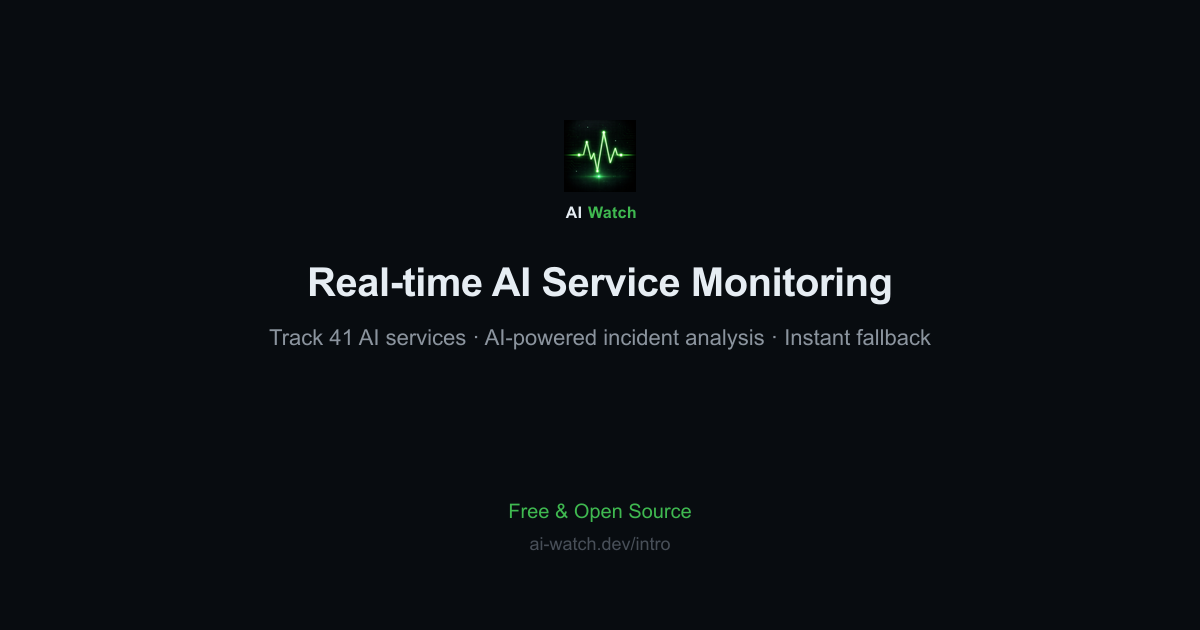
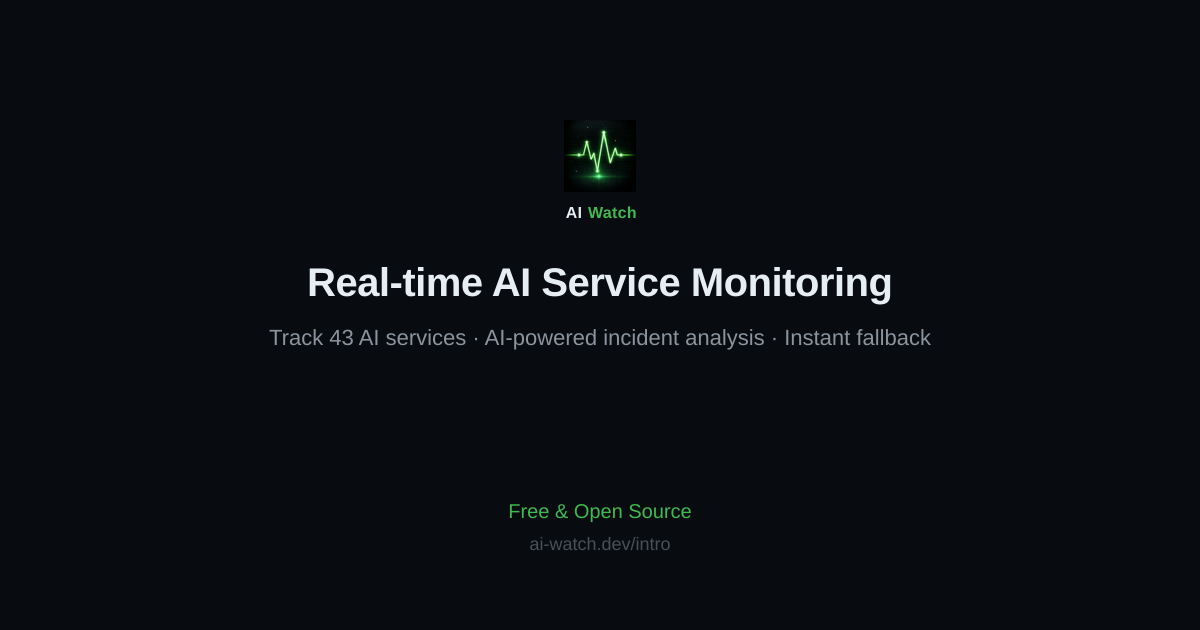
feat(services): add Twelve Labs video understanding API as service #43 (#839) (#871)
* feat(services): add Twelve Labs video understanding API as 43rd service (closes #839)

* fix: address Twelve Labs is-down page and probe review

* Fix CSP hashes and Twelve Labs related order

diff --git a/api/_methodology/html-template.ts b/api/_methodology/html-template.ts
@@ -25,7 +25,7 @@ export function renderMethodologyPage(nonce?: string): string {
 <title>How AIWatch Works — Methodology | AIWatch</title>
 ${CONSENT_INIT_COMMENT}
 ${consentInitScript(nonce)}
-<meta name="description" content="Transparent, independent measurement of AI service reliability. How AIWatch determines status, computes uptime and the AIWatch Score, and — explicitly — what we can't measure and why. 42 services, polled every 5 min, UTC.">
+<meta name="description" content="Transparent, independent measurement of AI service reliability. How AIWatch determines status, computes uptime and the AIWatch Score, and — explicitly — what we can't measure and why. 43 services, polled every 5 min, UTC.">
 <meta name="robots" content="index, follow">
 <meta property="og:type" content="website">
 <meta property="og:url" content="https://ai-watch.dev/methodology">
@@ -271,7 +271,7 @@ ${consentInitScript(nonce)}
 <section class="section" id="sources">
   <p class="section-label">// 01</p>
   <h2 data-i18n="s1.title">측정 대상</h2>
-  <p class="lead" data-i18n="s1.lead">AIWatch는 LLM API 15개, 코딩 에이전트 6개, 음성 3개, 추론·인프라 7개, 관측 3개, 영상 2개, 이미지 2개, AI 앱 4개 — 총 42개 AI 서비스를 최대 5분 간격으로 폴링합니다. 모든 시각은 UTC 기준입니다.</p>
+  <p class="lead" data-i18n="s1.lead">AIWatch는 LLM API 15개, 코딩 에이전트 6개, 음성 3개, 추론·인프라 8개, 관측 3개, 영상 2개, 이미지 2개, AI 앱 4개 — 총 43개 AI 서비스를 최대 5분 간격으로 폴링합니다. 모든 시각은 UTC 기준입니다.</p>
   <h3 data-i18n="s1.sourcesTitle">데이터 출처</h3>
   <p data-i18n="s1.sourcesDesc">상태·인시던트·uptime 데이터는 각 서비스의 공식 상태 페이지에서 수집됩니다. 제공사가 공개한 데이터가 1차 출처이며, 없는 값을 자체 추정으로 채우지 않습니다 — 공식 uptime이 없는 경우의 처리는 아래 <a href="#uptime">Uptime 섹션</a>에서 다룹니다.</p>
   <ul>
@@ -282,7 +282,7 @@ ${consentInitScript(nonce)}
     <li><strong>Flashduty</strong> <span data-i18n="s1.src.flashduty">— DeepSeek 상태 피드 정규화 (status.deepseek.com)</span></li>
     <li><strong>AWS Health Dashboard</strong> <span data-i18n="s1.src.awshealth">— Amazon Bedrock — 공개 이벤트 JSON API(인시던트 start/end), 가동률 API 없음</span></li>
     <li><strong>RSS incident feeds</strong> <span data-i18n="s1.src.rss">— Azure Status(Azure OpenAI) · xAI(status.x.ai) — 가동률 API 없이 인시던트 RSS만 수집</span></li>
-    <li><strong>Direct RTT probes</strong> <span data-i18n="s1.src.probe">— 29개 AI 서비스의 API 엔드포인트 직접 측정</span></li>
+    <li><strong>Direct RTT probes</strong> <span data-i18n="s1.src.probe">— 30개 AI 서비스의 API 엔드포인트 직접 측정</span></li>
   </ul>
   <h3 data-i18n="s1.secTitle">보안 이슈 모니터링</h3>
   <p data-i18n="s1.secDesc">상태·신뢰도 측정과는 별개로, AI 스택에 영향을 주는 보안 이슈도 함께 추적해 <strong>월간 리포트</strong>에 집계합니다. 이 데이터는 AIWatch Score나 인시던트 집계에는 반영되지 않습니다.</p>
@@ -364,11 +364,11 @@ ${consentInitScript(nonce)}
 <section class="section" id="latency">
   <p class="section-label">// 04</p>
   <h2 data-i18n="s5.title">레이턴시 (Probe RTT)</h2>
-  <p class="lead" data-i18n="s5.lead">29개 AI 서비스의 API 엔드포인트를 Cloudflare Workers 엣지에서 5분 간격으로 직접 측정합니다. p50 / p75 / p95 분위수를 산출합니다.</p>
+  <p class="lead" data-i18n="s5.lead">30개 AI 서비스의 API 엔드포인트를 Cloudflare Workers 엣지에서 5분 간격으로 직접 측정합니다. p50 / p75 / p95 분위수를 산출합니다.</p>
   <div class="limits">
     <div class="limits-label">⚠ <span data-i18n="s5.limit.label">핵심 한계 — 네트워크 RTT ≠ 추론 레이턴시</span></div>
     <p data-i18n="s5.limit.body">Probe RTT는 <strong>네트워크 왕복 시간</strong>을 측정합니다. 모델의 추론(토큰 생성) 레이턴시가 아닙니다. "이 서비스가 얼마나 빨리 토큰을 만드나"가 아니라 "엔드포인트가 네트워크 계층에서 얼마나 빨리 응답하나"를 나타냅니다.</p>
-    <p data-i18n="s5.limit.probe"><strong>Probe 미적용:</strong> 레이턴시 랭킹은 직접 probe하는 29개 AI 서비스만 대상입니다 — 앱·코딩 에이전트, 그리고 probe하지 않는 나머지 3개 AI 서비스는 제외됩니다.</p>
+    <p data-i18n="s5.limit.probe"><strong>Probe 미적용:</strong> 레이턴시 랭킹은 직접 probe하는 30개 AI 서비스만 대상입니다 — 앱·코딩 에이전트, 그리고 probe하지 않는 나머지 3개 AI 서비스는 제외됩니다.</p>
   </div>
 </section>
 
@@ -465,10 +465,10 @@ ${consentInitScript(nonce)}
   <!-- Responsiveness sub -->
   <div class="subscore">
     <h3 data-i18n="s4.resp.title">Responsiveness Score (0~20)</h3>
-    <p data-i18n="s4.resp.desc">5분 간격 health-check probe로 실제 API 엔드포인트의 응답 속도와 안정성을 측정합니다(29개 AI 서비스). 응답 속도와 일관성을 함께 반영합니다.</p>
+    <p data-i18n="s4.resp.desc">5분 간격 health-check probe로 실제 API 엔드포인트의 응답 속도와 안정성을 측정합니다(30개 AI 서비스). 응답 속도와 일관성을 함께 반영합니다.</p>
     <div class="formula"><span class="fl-sub" data-i18n="s4.resp.speed">Speed (0~10) — p50 RTT 지수 감쇠</span><br>10 × exp(−max(p50, 50ms) / 400ms)</div>
     <div class="formula"><span class="fl-sub" data-i18n="s4.resp.stability">Stability (0~10) — 결합 변동계수 지수 감쇠</span><br>10 × exp(−CV_combined / 0.5)</div>
-    <p data-i18n="s4.resp.na1">앱과 코딩 에이전트는 측정할 API 엔드포인트가 없어 probe 대상이 아니며, probe 세트(29개)에 들지 않은 나머지 3개 AI 서비스(Bedrock · Azure OpenAI · Modal)도 probe하지 않습니다.</p>
+    <p data-i18n="s4.resp.na1">앱과 코딩 에이전트는 측정할 API 엔드포인트가 없어 probe 대상이 아니며, probe 세트(30개)에 들지 않은 나머지 3개 AI 서비스(Bedrock · Azure OpenAI · Modal)도 probe하지 않습니다.</p>
     <p data-i18n="s4.resp.na2">이 경우 80점 만점을 100점으로 환산합니다(가용 컴포넌트만으로 산정).</p>
     <div class="formula">Score = (Uptime + Incidents + Recovery) / 80 × 100<br><span class="fl-sub" data-i18n="s4.resp.naFormula">probe-less: base 80 → 100 환산</span></div>
     <p class="note" data-i18n="s4.resp.insufficient">새로 추가된 probe 대상 서비스는 7일치 데이터가 쌓이기 전까지 5% 페널티를 적용합니다.</p>
@@ -546,10 +546,10 @@ const i18n = {
     'hero.meta': '42개 서비스 · 5분 간격 폴링 · UTC 기준',
     'hero.principle': '<strong>측정할 수 있는 것은 공개하고, 측정할 수 없는 것은 분명히 밝힙니다.</strong>',
     's1.title': '측정 대상',
-    's1.lead': 'AIWatch는 LLM API 15개, 코딩 에이전트 6개, 음성 3개, 추론·인프라 7개, 관측 3개, 영상 2개, 이미지 2개, AI 앱 4개 — 총 42개 AI 서비스를 최대 5분 간격으로 폴링합니다. 모든 시각은 UTC 기준입니다.',
+    's1.lead': 'AIWatch는 LLM API 15개, 코딩 에이전트 6개, 음성 3개, 추론·인프라 8개, 관측 3개, 영상 2개, 이미지 2개, AI 앱 4개 — 총 43개 AI 서비스를 최대 5분 간격으로 폴링합니다. 모든 시각은 UTC 기준입니다.',
     's1.sourcesTitle': '데이터 출처',
     's1.sourcesDesc': '상태·인시던트·uptime 데이터는 각 서비스의 공식 상태 페이지에서 수집됩니다. 제공사가 공개한 데이터가 1차 출처이며, 없는 값을 자체 추정으로 채우지 않습니다 — 공식 uptime이 없는 경우의 처리는 아래 <a href="#uptime">Uptime 섹션</a>에서 다룹니다.',
-    's1.src.atlassian': '— 다수의 주요 제공사', 's1.src.incidentio': '— 컴포넌트 단위 인시던트 + 영향도', 's1.src.gcloud': '— Gemini API (Google Cloud 상태 + AI Studio 컴포넌트 인시던트 병합)', 's1.src.others': '— 그 외 상태 페이지 플랫폼 (인시던트 RSS + 가동률 JSON)', 's1.src.flashduty': '— DeepSeek 상태 피드 정규화 (status.deepseek.com)', 's1.src.awshealth': '— Amazon Bedrock — 공개 이벤트 JSON API(인시던트 start/end), 가동률 API 없음', 's1.src.rss': '— Azure Status(Azure OpenAI) · xAI(status.x.ai) — 가동률 API 없이 인시던트 RSS만 수집', 's1.src.probe': '— 29개 AI 서비스의 API 엔드포인트 직접 측정',
+    's1.src.atlassian': '— 다수의 주요 제공사', 's1.src.incidentio': '— 컴포넌트 단위 인시던트 + 영향도', 's1.src.gcloud': '— Gemini API (Google Cloud 상태 + AI Studio 컴포넌트 인시던트 병합)', 's1.src.others': '— 그 외 상태 페이지 플랫폼 (인시던트 RSS + 가동률 JSON)', 's1.src.flashduty': '— DeepSeek 상태 피드 정규화 (status.deepseek.com)', 's1.src.awshealth': '— Amazon Bedrock — 공개 이벤트 JSON API(인시던트 start/end), 가동률 API 없음', 's1.src.rss': '— Azure Status(Azure OpenAI) · xAI(status.x.ai) — 가동률 API 없이 인시던트 RSS만 수집', 's1.src.probe': '— 30개 AI 서비스의 API 엔드포인트 직접 측정',
     's1.secTitle': '보안 이슈 모니터링',
     's1.secDesc': '상태·신뢰도 측정과는 별개로, AI 스택에 영향을 주는 보안 이슈도 함께 추적해 <strong>월간 리포트</strong>에 집계합니다. 이 데이터는 AIWatch Score나 인시던트 집계에는 반영되지 않습니다.',
     's1.sec.osv': '— SDK 취약점 (PyPI · npm 24개 추적 패키지), GitHub Advisories로 상세 보강', 's1.sec.hn': '— AI 서비스 관련 보안 뉴스 (Algolia 검색 API)',
@@ -585,10 +585,10 @@ const i18n = {
     's4.rec.title': 'Recovery Score (0~15)',
     's4.rec.note': 'MTTR은 해결된 인시던트 지속 시간의 30일 중앙값입니다(3건 미만이면 평균으로 폴백).',
     's4.resp.title': 'Responsiveness Score (0~20)',
-    's4.resp.desc': '5분 간격 health-check probe로 실제 API 엔드포인트의 응답 속도와 안정성을 측정합니다(29개 AI 서비스). 응답 속도와 일관성을 함께 반영합니다.',
+    's4.resp.desc': '5분 간격 health-check probe로 실제 API 엔드포인트의 응답 속도와 안정성을 측정합니다(30개 AI 서비스). 응답 속도와 일관성을 함께 반영합니다.',
     's4.resp.speed': 'Speed (0~10) — p50 RTT 지수 감쇠',
     's4.resp.stability': 'Stability (0~10) — 결합 변동계수 지수 감쇠',
-    's4.resp.na1': '앱과 코딩 에이전트는 측정할 API 엔드포인트가 없어 probe 대상이 아니며, probe 세트(29개)에 들지 않은 나머지 3개 AI 서비스(Bedrock · Azure OpenAI · Modal)도 probe하지 않습니다.',
+    's4.resp.na1': '앱과 코딩 에이전트는 측정할 API 엔드포인트가 없어 probe 대상이 아니며, probe 세트(30개)에 들지 않은 나머지 3개 AI 서비스(Bedrock · Azure OpenAI · Modal)도 probe하지 않습니다.',
     's4.resp.na2': '이 경우 80점 만점을 100점으로 환산합니다(가용 컴포넌트만으로 산정).',
     's4.resp.naFormula': 'probe-less: base 80 → 100 환산',
     's4.resp.insufficient': '새로 추가된 probe 대상 서비스는 7일치 데이터가 쌓이기 전까지 5% 페널티를 적용합니다.',
@@ -596,10 +596,10 @@ const i18n = {
     's4.noUptime.desc': '일부 서비스(Gemini·xAI·Bedrock 등)는 공식 uptime 수치가 없습니다. 가정값을 넣지 않고 uptime 컴포넌트(40점)를 제외한 뒤 나머지 가용 컴포넌트만으로 100점 환산합니다. probe가 있는 서비스(Gemini·xAI·OpenRouter 등)는 인시던트·복구·응답성으로 점수를 산정해 랭킹에 포함합니다. probe도 없는 서비스(Bedrock·Azure)는 측정 신호가 인시던트·복구뿐이라 신뢰할 점수를 낼 수 없어, 점수를 산출·표시하지 않고 인시던트 추적만 제공합니다.',
     's4.grades.title': '등급 기준',
     's5.title': '레이턴시 (Probe RTT)',
-    's5.lead': '29개 AI 서비스의 API 엔드포인트를 Cloudflare Workers 엣지에서 5분 간격으로 직접 측정합니다. p50 / p75 / p95 분위수를 산출합니다.',
+    's5.lead': '30개 AI 서비스의 API 엔드포인트를 Cloudflare Workers 엣지에서 5분 간격으로 직접 측정합니다. p50 / p75 / p95 분위수를 산출합니다.',
     's5.limit.label': '핵심 한계 — 네트워크 RTT ≠ 추론 레이턴시',
     's5.limit.body': 'Probe RTT는 <strong>네트워크 왕복 시간</strong>을 측정합니다. 모델의 추론(토큰 생성) 레이턴시가 아닙니다. "이 서비스가 얼마나 빨리 토큰을 만드나"가 아니라 "엔드포인트가 네트워크 계층에서 얼마나 빨리 응답하나"를 나타냅니다.',
-    's5.limit.probe': '<strong>Probe 미적용:</strong> 레이턴시 랭킹은 직접 probe하는 29개 AI 서비스만 대상입니다 — 앱·코딩 에이전트, 그리고 probe하지 않는 나머지 3개 AI 서비스는 제외됩니다.',
+    's5.limit.probe': '<strong>Probe 미적용:</strong> 레이턴시 랭킹은 직접 probe하는 30개 AI 서비스만 대상입니다 — 앱·코딩 에이전트, 그리고 probe하지 않는 나머지 3개 AI 서비스는 제외됩니다.',
     's6.title': '인시던트 · MTTR · 탐지',
     's6.counting.title': '인시던트 집계',
     's6.counting.body': '인시던트 수는 서비스별 영향 컴포넌트를 모두 반영합니다. 제공사마다 인시던트를 세분화하는 정도가 다릅니다 — Anthropic은 모델별(Opus/Sonnet/Haiku)로 따로 보고해, 서비스 단위로 묶어 보고하는 곳보다 건수가 부풀려집니다. 따라서 건수가 많다고 신뢰도가 낮은 것은 아니며, 제공사끼리 비교할 때는 이 세분화 차이를 감안해야 합니다.',
@@ -625,13 +625,13 @@ const i18n = {
     'hero.badge': 'METHODOLOGY',
     'hero.title': 'How AIWatch <em>Works</em> — Methodology',
     'hero.tagline': 'Independent, transparent measurement of AI service reliability — no account, no PII.',
-    'hero.meta': '42 services · polled every 5 min · UTC',
+    'hero.meta': '43 services · polled every 5 min · UTC',
     'hero.principle': '<strong>We publish what we can measure — and are explicit about what we can\\\'t.</strong>',
     's1.title': 'What we measure',
-    's1.lead': 'AIWatch polls 42 AI services — 15 LLM APIs, 6 coding agents, 3 voice, 7 inference & infra, 3 observability, 2 video, 2 image, and 4 AI apps — up to every 5 minutes. All timestamps are in UTC.',
+    's1.lead': 'AIWatch polls 43 AI services — 15 LLM APIs, 6 coding agents, 3 voice, 8 inference & infra, 3 observability, 2 video, 2 image, and 4 AI apps — up to every 5 minutes. All timestamps are in UTC.',
     's1.sourcesTitle': 'Data sources',
     's1.sourcesDesc': 'Status, incident, and uptime data are all collected from each service\\\'s official status page. The provider\\\'s published data is the primary source, and we never fill a missing value with our own estimate — how a missing official uptime is handled is covered in the <a href="#uptime">Uptime section</a> below.',
-    's1.src.atlassian': '— many major providers', 's1.src.incidentio': '— per-component incidents + impact', 's1.src.gcloud': '— Gemini API (Google Cloud status + AI Studio component incidents, merged)', 's1.src.others': '— additional status-page platforms (incident RSS + uptime JSON)', 's1.src.flashduty': '— normalized DeepSeek status feed (status.deepseek.com)', 's1.src.awshealth': '— Amazon Bedrock — public events JSON API (incident start/end), no uptime API', 's1.src.rss': '— Azure Status (Azure OpenAI) · xAI (status.x.ai) — incident RSS only, no uptime API', 's1.src.probe': '— direct measurement of 29 AI services\\\' API endpoints',
+    's1.src.atlassian': '— many major providers', 's1.src.incidentio': '— per-component incidents + impact', 's1.src.gcloud': '— Gemini API (Google Cloud status + AI Studio component incidents, merged)', 's1.src.others': '— additional status-page platforms (incident RSS + uptime JSON)', 's1.src.flashduty': '— normalized DeepSeek status feed (status.deepseek.com)', 's1.src.awshealth': '— Amazon Bedrock — public events JSON API (incident start/end), no uptime API', 's1.src.rss': '— Azure Status (Azure OpenAI) · xAI (status.x.ai) — incident RSS only, no uptime API', 's1.src.probe': '— direct measurement of 30 AI services\\\' API endpoints',
     's1.secTitle': 'Security-issue monitoring',
     's1.secDesc': 'On a track separate from status & reliability, we also track security issues affecting the AI stack, aggregated into the <strong>monthly report</strong>. This data does not feed the AIWatch Score or incident counts.',
     's1.sec.osv': '— SDK vulnerabilities (24 tracked PyPI · npm packages), enriched via GitHub Advisories', 's1.sec.hn': '— security news about AI services (Algolia search API)',
@@ -667,10 +667,10 @@ const i18n = {
     's4.rec.title': 'Recovery Score (0–15)',
     's4.rec.note': 'MTTR is the 30-day median of resolved-incident durations (mean fallback for fewer than 3 incidents).',
     's4.resp.title': 'Responsiveness Score (0–20)',
-    's4.resp.desc': 'Measures actual API endpoint speed and stability via 5-minute health-check probes (29 AI services). Combines response speed and consistency.',
+    's4.resp.desc': 'Measures actual API endpoint speed and stability via 5-minute health-check probes (30 AI services). Combines response speed and consistency.',
     's4.resp.speed': 'Speed (0–10) — exp decay on p50 RTT',
     's4.resp.stability': 'Stability (0–10) — exp decay on combined coefficient of variation',
-    's4.resp.na1': 'Apps and coding agents have no API endpoint to measure; and 3 other AI services outside the 28-service probe set (Bedrock, Azure OpenAI, Modal) are not probed either.',
+    's4.resp.na1': 'Apps and coding agents have no API endpoint to measure; and 3 other AI services outside the 30-service probe set (Bedrock, Azure OpenAI, Modal) are not probed either.',
     's4.resp.na2': 'Their score is rescaled from the 80-point base to 100 (computed on the available components).',
     's4.resp.naFormula': 'probe-less: rescale base 80 → 100',
     's4.resp.insufficient': 'Newly added probed services receive a 5% penalty until 7 days of probe data accumulate.',
@@ -678,10 +678,10 @@ const i18n = {
     's4.noUptime.desc': 'Some services (Gemini, xAI, Bedrock, etc.) publish no official uptime. We assume no value — the 40-point uptime component is dropped and the score is rescaled over the remaining available components. Services that ARE probed (Gemini, xAI, OpenRouter, etc.) are scored on incidents + recovery + responsiveness and included in the ranking. Services with no probe either (Bedrock, Azure OpenAI) have only incidents + recovery left as signals — too thin for a trustworthy score, so we publish no score for them and provide incident tracking only.',
     's4.grades.title': 'Grade thresholds',
     's5.title': 'Latency (Probe RTT)',
-    's5.lead': 'We measure the API endpoints of 29 AI services directly from the Cloudflare Workers edge every 5 minutes, producing p50 / p75 / p95 percentiles.',
+    's5.lead': 'We measure the API endpoints of 30 AI services directly from the Cloudflare Workers edge every 5 minutes, producing p50 / p75 / p95 percentiles.',
     's5.limit.label': 'Key limit — network RTT ≠ inference latency',
     's5.limit.body': 'Probe RTT measures <strong>network round-trip time</strong>, NOT a model\\\'s inference (token-generation) latency. It reflects how fast the endpoint responds at the network layer, not how fast the service generates tokens.',
-    's5.limit.probe': '<strong>No probe:</strong> The latency ranking covers only the 29 directly-probed AI services — apps, coding agents, and 3 other non-probed AI services are excluded.',
+    's5.limit.probe': '<strong>No probe:</strong> The latency ranking covers only the 30 directly-probed AI services — apps, coding agents, and 3 other non-probed AI services are excluded.',
     's6.title': 'Incidents · MTTR · Detection',
     's6.counting.title': 'Incident counting',
     's6.counting.body': 'Incident counts reflect all affected components per service. Providers differ in reporting granularity — Anthropic reports per-model (Opus/Sonnet/Haiku counted separately), inflating its totals versus service-level reporters. A higher count does not mean lower reliability; adjust for granularity before comparing across providers.',

diff --git a/api/_intro/html-template.ts b/api/_intro/html-template.ts
@@ -62,7 +62,7 @@ ${consentInitScript(nonce)}
   "@type": "WebApplication",
   "name": "AIWatch",
   "url": "https://ai-watch.dev",
-  "description": "Real-time status monitoring for 42 AI services including Claude, ChatGPT, Gemini, Cursor, and Codex. AI-powered incident analysis with fallback recommendations.",
+  "description": "Real-time status monitoring for 43 AI services including Claude, ChatGPT, Gemini, Cursor, and Codex. AI-powered incident analysis with fallback recommendations.",
   "applicationCategory": "DeveloperApplication",
   "operatingSystem": "Web",
   "offers": { "@type": "Offer", "price": "0", "priceCurrency": "USD" },
@@ -533,7 +533,7 @@ ${announcementHtml}
     </div>
     <p class="hero-trust" data-i18n="hero.trust">로그인 없음 · 실시간 상태 · 완전 무료 오픈소스 (AGPL)</p>
     <div class="hero-pills">
-      <div class="stat-pill"><span class="stat-pill-num">42</span> <span data-i18n="hero.pill1">AI 서비스</span></div>
+      <div class="stat-pill"><span class="stat-pill-num">43</span> <span data-i18n="hero.pill1">AI 서비스</span></div>
       <div class="stat-pill"><span class="stat-pill-num" data-i18n="hero.pill2v">실시간</span> <span data-i18n="hero.pill2">알림</span></div>
       <div class="stat-pill"><span class="stat-pill-num">AGPL</span> <span data-i18n="hero.pill3">오픈소스</span></div>
     </div>
@@ -665,7 +665,7 @@ ${announcementHtml}
       <div class="mock-section-header">
         <div class="mock-section-title"><span class="green-slash">//</span> Services</div>
         <div class="mock-filter-tabs">
-          <span class="mock-filter-tab active">All 42</span>
+          <span class="mock-filter-tab active">All 43</span>
           <span class="mock-filter-tab">Operational 35</span>
           <span class="mock-filter-tab">Issues 1<span class="mock-filter-dot"></span></span>
         </div>
@@ -1122,7 +1122,7 @@ const i18n = {
     'nav.features': '기능', 'nav.how': '동작 방식', 'nav.methodology': '측정 방법론', 'nav.report': '월간 리포트', 'nav.cta': '장애 확인하기 →',
     'hero.badge': 'LIVE MONITORING',
     'hero.title': '<em>AI 서비스</em> 장애를 즉시 파악하고,<br>갈아탈 대안까지 한 번에.',
-    'hero.sub': '42개 AI 서비스 상태를 한 화면에서.<span class="hero-sub-line"> AIWatch가 신뢰도를 랭킹하고 장애를 분석해,</span> 멈추는 순간 대안을 즉시 추천합니다. 무료 · 오픈소스 · 무가입.',
+    'hero.sub': '43개 AI 서비스 상태를 한 화면에서.<span class="hero-sub-line"> AIWatch가 신뢰도를 랭킹하고 장애를 분석해,</span> 멈추는 순간 대안을 즉시 추천합니다. 무료 · 오픈소스 · 무가입.',
     'hero.cta1': '대시보드 열기 →', 'hero.trust': '로그인 없음 · 실시간 상태 · 완전 무료 오픈소스 (AGPL)', 'hero.cta2': 'GitHub에서 보기',
     'hero.pill1': 'AI 서비스', 'hero.pill2v': '실시간', 'hero.pill2': '알림', 'hero.pill3': '오픈소스',
     'flow.1.title': '장애 감지', 'flow.2.conn': 'AI 분석 시작', 'flow.2.bar': '패턴 분석 중', 'flow.3.conn': 'Discord · Slack · RSS 알림', 'flow.3.title': '알림 발송', 'flow.3.body': 'Discord · Slack · RSS 알림 발송', 'flow.4.conn': '대안 추천', 'flow.4.title': 'Fallback 추천',
@@ -1134,7 +1134,7 @@ const i18n = {
     'feat.3.title': 'Fallback 추천', 'feat.3.desc': '장애 중인 서비스의 대안을 같은 카테고리 Score 상위 순으로 즉시 제안합니다. 같은 제공사 서비스는 자동 제외됩니다.',
     'feat.4.title': '"Is X Down?" 전용 페이지', 'feat.4.desc': 'ai-watch.dev/is-claude-down 같은 전용 페이지에서 실시간 상태, AI 분석, 대안 추천을 한 번에 확인합니다.',
     'how.title': '이렇게 동작합니다', 'how.sub': '각 서비스의 공식 상태 페이지 데이터를 기반으로 동작합니다',
-    'compare.title': '공식 상태 페이지와 무엇이 다른가요?', 'compare.sub': '공식 페이지 데이터를 기반으로, 42개를 한 화면에서 통합합니다', 'compare.col1': '공식 상태 페이지', 'compare.r2': '장애 알림', 'compare.r2a': '제공사마다 개별 구독', 'compare.r2b': '42개를 한 곳에서 — Discord · Slack · RSS', 'compare.r3': 'AIWatch Score', 'compare.r3a': '종합 점수 없음 (업타임 %만)', 'compare.r3b': 'AIWatch Score — Uptime + 영향 일수 + 복구 + 응답성', 'compare.r4': '장애 분석', 'compare.r4b': 'AI가 원인 · 복구 시간 분석', 'compare.r5': '대안 추천', 'compare.r5b': 'Fallback 서비스 즉시 제안', 'compare.r6': '월간 리포트', 'compare.r6b': '매월 리포트 공개', 'compare.r7': '비용', 'compare.r7a': '무료', 'compare.r7b': '완전 무료 · 오픈소스',
+    'compare.title': '공식 상태 페이지와 무엇이 다른가요?', 'compare.sub': '공식 페이지 데이터를 기반으로, 43개를 한 화면에서 통합합니다', 'compare.col1': '공식 상태 페이지', 'compare.r2': '장애 알림', 'compare.r2a': '제공사마다 개별 구독', 'compare.r2b': '43개를 한 곳에서 — Discord · Slack · RSS', 'compare.r3': 'AIWatch Score', 'compare.r3a': '종합 점수 없음 (업타임 %만)', 'compare.r3b': 'AIWatch Score — Uptime + 영향 일수 + 복구 + 응답성', 'compare.r4': '장애 분석', 'compare.r4b': 'AI가 원인 · 복구 시간 분석', 'compare.r5': '대안 추천', 'compare.r5b': 'Fallback 서비스 즉시 제안', 'compare.r6': '월간 리포트', 'compare.r6b': '매월 리포트 공개', 'compare.r7': '비용', 'compare.r7a': '무료', 'compare.r7b': '완전 무료 · 오픈소스',
     'how.1.badge': '자동', 'how.2.badge': '장애 감지 시', 'how.3.badge': '실시간', 'how.4.badge': '매월',
     'how.1.title': '수집', 'how.1.desc': '공식 상태 페이지를 최대 5분 간격으로 자동 갱신',
     'how.2.title': '분석', 'how.2.desc': '하이브리드 AI(Gemma 4 + Claude Sonnet fallback)가 패턴 · 복구 시간 · 영향 범위 분석',
@@ -1144,14 +1144,14 @@ const i18n = {
     'alert.title': '장애 알림, 원하는 방식으로', 'alert.sub': '장애 발생 시 실시간 알림 + AI 분석 + Fallback 추천까지 한 번에. 무료입니다.',
     'alert.rss.copied': '복사됨 ✓', 'alert.rss.prompt': 'RSS 피드 URL 복사:',
     'alert.slack.btn': '💬 Slack으로 알림 받기', 'alert.slack.help': 'Slack 채널에 명령어만 붙여넣으면 끝 — 설정 불필요', 'alert.slack.copied': '복사됨! Slack 채널에 붙여넣으세요', 'alert.slack.prompt': 'Slack 명령어 복사:',
-    'report.title': '월간 AI 서비스 신뢰도 리포트', 'report.hook': '가장 안정적인 AI 서비스는? 답은 의외일 수 있습니다.', 'report.link': '전체 리포트 보기 →', 'report.sub': '매월 42개 서비스의 AIWatch Score 순위, 인시던트 요약, 공식 업타임, 주요 장애 분석, 프로바이더 추천까지 한 리포트로 공개합니다.', 'report.chart.note': '* 하위 점수는 리포팅 방식 차이일 수 있으며, 실제 불안정성을 의미하지 않습니다',
+    'report.title': '월간 AI 서비스 신뢰도 리포트', 'report.hook': '가장 안정적인 AI 서비스는? 답은 의외일 수 있습니다.', 'report.link': '전체 리포트 보기 →', 'report.sub': '매월 43개 서비스의 AIWatch Score 순위, 인시던트 요약, 공식 업타임, 주요 장애 분석, 프로바이더 추천까지 한 리포트로 공개합니다.', 'report.chart.note': '* 하위 점수는 리포팅 방식 차이일 수 있으며, 실제 불안정성을 의미하지 않습니다',
     'footer.report': '월간 리포트', 'footer.alert': '알림 설정'
   },
   en: {
     'nav.features': 'Features', 'nav.how': 'How it works', 'nav.methodology': 'Methodology', 'nav.report': 'Monthly Report', 'nav.cta': 'Check for Outages →',
     'hero.badge': 'LIVE MONITORING',
     'hero.title': 'Know when any <em>AI service</em> is down —<br>and what to switch to.',
-    'hero.sub': 'Real-time status for 42 AI services in one view.<span class="hero-sub-line"> AIWatch ranks reliability, analyzes incidents,</span> and recommends an instant fallback the moment something breaks. Free & open source — no signup.',
+    'hero.sub': 'Real-time status for 43 AI services in one view.<span class="hero-sub-line"> AIWatch ranks reliability, analyzes incidents,</span> and recommends an instant fallback the moment something breaks. Free & open source — no signup.',
     'hero.cta1': 'Open the dashboard →', 'hero.trust': 'No signup · Live status · Free & open source (AGPL)', 'hero.cta2': 'View on GitHub',
     'hero.pill1': 'AI Services', 'hero.pill2v': 'Real-time', 'hero.pill2': 'Alerts', 'hero.pill3': 'Open Source',
     'flow.1.title': 'Outage Detected', 'flow.2.conn': 'AI analysis started', 'flow.2.bar': 'Analyzing patterns', 'flow.3.conn': 'Discord · Slack · RSS alerts', 'flow.3.title': 'Alert Sent', 'flow.3.body': 'Discord · Slack · RSS alert sent', 'flow.4.conn': 'Alternatives suggested', 'flow.4.title': 'Fallback Suggested',
@@ -1163,7 +1163,7 @@ const i18n = {
     'feat.3.title': 'Fallback Recommendations', 'feat.3.desc': 'Get instant alternative suggestions ranked by Score within the same category. Same-provider services are automatically excluded.',
     'feat.4.title': '"Is X Down?" Dedicated Pages', 'feat.4.desc': 'Pages like ai-watch.dev/is-claude-down show real-time status, AI analysis, and fallback recommendations — all in one place.',
     'how.title': 'How it works', 'how.sub': 'Powered by official status page data from each provider',
-    'compare.title': 'How is AIWatch different?', 'compare.sub': 'Built on official status data — aggregated across 42 services in one place', 'compare.col1': 'Official Status Page', 'compare.r2': 'Alerts', 'compare.r2a': 'Subscribe per provider, separately', 'compare.r2b': 'All 42 in one — Discord · Slack · RSS', 'compare.r3': 'AIWatch Score', 'compare.r3a': 'No composite score (uptime % only)', 'compare.r3b': 'AIWatch Score — Uptime + Impact days + Recovery + Responsiveness', 'compare.r4': 'Incident analysis', 'compare.r4b': 'AI analyzes cause & recovery', 'compare.r5': 'Fallback', 'compare.r5b': 'Alternative services suggested', 'compare.r6': 'Monthly report', 'compare.r6b': 'Monthly report published', 'compare.r7': 'Cost', 'compare.r7a': 'Free', 'compare.r7b': 'Free & open source',
+    'compare.title': 'How is AIWatch different?', 'compare.sub': 'Built on official status data — aggregated across 43 services in one place', 'compare.col1': 'Official Status Page', 'compare.r2': 'Alerts', 'compare.r2a': 'Subscribe per provider, separately', 'compare.r2b': 'All 43 in one — Discord · Slack · RSS', 'compare.r3': 'AIWatch Score', 'compare.r3a': 'No composite score (uptime % only)', 'compare.r3b': 'AIWatch Score — Uptime + Impact days + Recovery + Responsiveness', 'compare.r4': 'Incident analysis', 'compare.r4b': 'AI analyzes cause & recovery', 'compare.r5': 'Fallback', 'compare.r5b': 'Alternative services suggested', 'compare.r6': 'Monthly report', 'compare.r6b': 'Monthly report published', 'compare.r7': 'Cost', 'compare.r7a': 'Free', 'compare.r7b': 'Free & open source',
     'how.1.badge': 'Auto', 'how.2.badge': 'On detection', 'how.3.badge': 'Real-time', 'how.4.badge': 'Monthly',
     'how.1.title': 'Collect', 'how.1.desc': 'Official status pages auto-refreshed up to every 5 min',
     'how.2.title': 'Analyze', 'how.2.desc': 'Hybrid AI (Gemma 4 + Claude Sonnet fallback) analyzes pattern, recovery time & scope',
@@ -1173,7 +1173,7 @@ const i18n = {
     'alert.title': 'Get notified, your way', 'alert.sub': 'Real-time incident alerts with AI analysis and fallback recommendations. Free.',
     'alert.rss.copied': 'Copied ✓', 'alert.rss.prompt': 'Copy this RSS feed URL:',
     'alert.slack.btn': '💬 Get alerts in Slack', 'alert.slack.help': 'Paste the command into any Slack channel — done. No setup.', 'alert.slack.copied': 'Copied! Paste into any Slack channel', 'alert.slack.prompt': 'Copy Slack command:',
-    'report.title': 'Monthly AI Reliability Report', 'report.hook': 'Which AI service is most reliable? The answer may surprise you.', 'report.link': 'View All Reports →', 'report.sub': 'AIWatch Score rankings, incident summaries, official uptime, notable outage analysis, and provider recommendations — all in one monthly report for 42 services.', 'report.chart.note': '* Lower scores may reflect reporting granularity, not actual instability',
+    'report.title': 'Monthly AI Reliability Report', 'report.hook': 'Which AI service is most reliable? The answer may surprise you.', 'report.link': 'View All Reports →', 'report.sub': 'AIWatch Score rankings, incident summaries, official uptime, notable outage analysis, and provider recommendations — all in one monthly report for 43 services.', 'report.chart.note': '* Lower scores may reflect reporting granularity, not actual instability',
     'footer.report': 'Monthly Report', 'footer.alert': 'Alert Settings'
   }
 };

diff --git a/src/utils/constants.js b/src/utils/constants.js
@@ -17,7 +17,7 @@ export const API_SERVICE_IDS = [
   'claude', 'openai', 'gemini', 'mistral', 'cohere', 'groq',
   'together', 'fireworks', 'cerebras', 'perplexity', 'huggingface', 'replicate', 'fal',
   'elevenlabs', 'xai', 'deepseek', 'openrouter', 'bedrock', 'azureopenai',
-  'pinecone', 'turbopuffer', 'stability', 'bfl', 'voyageai', 'modal', 'langsmith', 'helicone', 'langfuse', 'runway', 'luma', 'assemblyai', 'deepgram',
+  'pinecone', 'turbopuffer', 'stability', 'bfl', 'voyageai', 'modal', 'twelvelabs', 'langsmith', 'helicone', 'langfuse', 'runway', 'luma', 'assemblyai', 'deepgram',
 ]
 
 // AI web apps (no latency — web services, ordered before related API)
@@ -36,7 +36,7 @@ export const SERVICE_AND_APP_IDS = [
   // voice & speech AI
   'elevenlabs', 'assemblyai', 'deepgram',
   // inference / infrastructure
-  'huggingface', 'replicate', 'fal', 'pinecone', 'turbopuffer', 'stability', 'bfl', 'voyageai', 'modal',
+  'huggingface', 'replicate', 'fal', 'pinecone', 'turbopuffer', 'stability', 'bfl', 'voyageai', 'modal', 'twelvelabs',
   // LLM observability (#601)
   'langsmith', 'helicone', 'langfuse',
   // video-gen
@@ -58,7 +58,7 @@ export const SERVICE_CATEGORIES = {
   llm:       { labelKey: 'filter.llm',       ids: ['claude', 'openai', 'gemini', 'bedrock', 'azureopenai', 'mistral', 'cohere', 'groq', 'together', 'fireworks', 'cerebras', 'perplexity', 'xai', 'deepseek', 'openrouter'] },
   agents:    { labelKey: 'filter.agents',    ids: ['claudecode', 'codex', 'cursor', 'copilot', 'windsurf', 'junie'] },
   voice:     { labelKey: 'filter.voice',     ids: ['elevenlabs', 'assemblyai', 'deepgram'] }, // #658 — STT/TTS
-  inference: { labelKey: 'filter.inference', ids: ['huggingface', 'replicate', 'fal', 'modal', 'voyageai', 'pinecone', 'turbopuffer'] }, // catch-all for non-LLM API infra: model-hosting (hf/replicate/fal/modal) + embeddings (voyageai) + vector (pinecone/turbopuffer, #857). Observability (#601) and image (#756) split out to their own categories; vector stays here as a sidebar group (its ≥2-member split is a fallback tier only, #857) — remaining single-service sub-domains stay until they gain siblings
+  inference: { labelKey: 'filter.inference', ids: ['huggingface', 'replicate', 'fal', 'modal', 'voyageai', 'pinecone', 'turbopuffer', 'twelvelabs'] }, // catch-all for non-LLM API infra: model-hosting (hf/replicate/fal/modal) + embeddings (voyageai) + vector (pinecone/turbopuffer, #857). Observability (#601) and image (#756) split out to their own categories; vector stays here as a sidebar group (its ≥2-member split is a fallback tier only, #857) — remaining single-service sub-domains stay until they gain siblings
   observability: { labelKey: 'filter.observability', ids: ['langsmith', 'helicone', 'langfuse'] }, // #601 — LLM observability/eval split out (LangSmith + Helicone + Langfuse recommend each other, fallback tier 6)
   video:     { labelKey: 'filter.video',     ids: ['runway', 'luma'] }, // #658 — video-gen (align membership with #601 fallback sub-tier)
   image:     { labelKey: 'filter.image',     ids: ['stability', 'bfl'] }, // #756 — image-gen split out (Stability + FLUX recommend each other, fallback tier 7); mirrors the video/observability precedent
@@ -80,7 +80,7 @@ export function categoryRankOf(id) {
 
 // Services excluded from fallback recommendations (not interchangeable with LLM APIs)
 // Keep in sync with worker/src/fallback.ts EXCLUDE_FALLBACK
-export const EXCLUDE_FALLBACK = ['replicate', 'huggingface', 'fal', 'voyageai', 'modal', 'characterai', 'bedrock', 'azureopenai'] // #756 — stability un-excluded (image sibling FLUX added); #758 — fal excluded (self-serve inference platform, like replicate/huggingface); #857 — pinecone un-excluded (vector sibling turbopuffer added, tier 8)
+export const EXCLUDE_FALLBACK = ['replicate', 'huggingface', 'fal', 'voyageai', 'modal', 'characterai', 'bedrock', 'azureopenai', 'twelvelabs'] // #756 — stability un-excluded (image sibling FLUX added); #758 — fal excluded (self-serve inference platform, like replicate/huggingface); #857 — pinecone un-excluded (vector sibling turbopuffer added, tier 8)
 
 // #842 — outbound referral wedge. Product/homepage URL per service that can be RECOMMENDED as a
 // fallback (Analyze modal / Overview ActionBanner), so an outage-moment visitor can ACT on the

diff --git a/index.html b/index.html
@@ -6,14 +6,14 @@
     <link rel="apple-touch-icon" href="/apple-touch-icon.png" />
     <link rel="manifest" href="/manifest.json" />
     <meta name="viewport" content="width=device-width, initial-scale=1.0" />
-    <meta name="description" content="Real-time status monitoring for 42 AI services — Claude, ChatGPT, Gemini, Cursor, Codex and more. Check if AI services are down, track uptime and incidents." />
+    <meta name="description" content="Real-time status monitoring for 43 AI services — Claude, ChatGPT, Gemini, Cursor, Codex and more. Check if AI services are down, track uptime and incidents." />
     <title>AIWatch — AI 서비스 실시간 모니터링</title>
 
     <!-- Open Graph -->
     <meta property="og:type" content="website" />
     <meta property="og:url" content="https://ai-watch.dev/" />
-    <meta property="og:title" content="AIWatch — 42개 AI 서비스 실시간 모니터링" />
-    <meta property="og:description" content="Claude, ChatGPT, Gemini, Cursor, Codex 등 42개 AI 서비스 상태를 한눈에. 장애 발생 시 즉시 확인." />
+    <meta property="og:title" content="AIWatch — 43개 AI 서비스 실시간 모니터링" />
+    <meta property="og:description" content="Claude, ChatGPT, Gemini, Cursor, Codex 등 43개 AI 서비스 상태를 한눈에. 장애 발생 시 즉시 확인." />
     <meta property="og:image" content="https://ai-watch.dev/og-intro.png" />
     <meta property="og:image:width" content="1200" />
     <meta property="og:image:height" content="630" />
@@ -23,8 +23,8 @@
     <!-- Twitter Card -->
     <meta name="twitter:card" content="summary_large_image" />
     <meta name="twitter:url" content="https://ai-watch.dev/" />
-    <meta name="twitter:title" content="AIWatch — 42개 AI 서비스 실시간 모니터링" />
-    <meta name="twitter:description" content="Claude, ChatGPT, Gemini, Cursor, Codex 등 42개 AI 서비스 상태를 한눈에. 장애 발생 시 즉시 확인." />
+    <meta name="twitter:title" content="AIWatch — 43개 AI 서비스 실시간 모니터링" />
+    <meta name="twitter:description" content="Claude, ChatGPT, Gemini, Cursor, Codex 등 43개 AI 서비스 상태를 한눈에. 장애 발생 시 즉시 확인." />
     <meta name="twitter:image" content="https://ai-watch.dev/og-intro.png" />
 
     <!-- Canonical & Additional -->
@@ -39,7 +39,7 @@
       "@type": "WebApplication",
       "name": "AIWatch",
       "url": "https://ai-watch.dev",
-      "description": "Real-time status monitoring for 42 AI services including Claude, ChatGPT, Gemini, Cursor, and Codex",
+      "description": "Real-time status monitoring for 43 AI services including Claude, ChatGPT, Gemini, Cursor, and Codex",
       "applicationCategory": "DeveloperApplication",
       "operatingSystem": "Web"
     }

diff --git a/api/_is-down/seo-content.ts b/api/_is-down/seo-content.ts
@@ -501,6 +501,18 @@ const SEO_CONTENT: Record<string, ServiceSEO> = {
       { q: 'Which Codex surface does the uptime percentage track?', a: 'The uptime shown on this page reflects the Codex API component specifically, which backs the CLI and VS Code extension. Codex Web frontend outages may not be counted in that percentage — check the Recent Incidents section for surface-specific events across all four Codex surfaces (Codex Web, Codex API, CLI, VS Code extension).' },
     ],
   },
+  twelvelabs: {
+    displayName: 'Twelve Labs',
+    description: 'Twelve Labs is a video understanding AI platform that provides search, embed, and analyze capabilities over video using the Marengo and Pegasus foundation models. It enables developers to build applications that can search within videos, generate embeddings, and analyze video content.',
+    insight: 'Twelve Labs is a video understanding API focused on search, embed, and analyze workflows — not video generation. It uses a custom Atlassian Statuspage (status.twelvelabs.io) with a well-structured component layout: the API group covers 10 individual model surfaces (Search, Embed, Analyze by Marengo 3.0 and Pegasus 1.5/1.2, Index, Video list), while Platform/Playground/Dashboard are non-API surfaces.',
+    whenDown: 'When Twelve Labs API is down, applications relying on video search, embedding, or analysis capabilities will be unable to process video content. Video indexing tasks and search queries will fail or timeout.',
+    faqs: [
+      { q: 'Is Twelve Labs API down right now?', a: 'Check the live status indicator at the top of this page. AIWatch monitors Twelve Labs every 5 minutes and shows real-time operational status, uptime percentage, and recent incidents.' },
+      { q: 'How do I check Twelve Labs status?', a: 'You can check Twelve Labs status on this page (updated every 5 minutes), on the official status page at status.twelvelabs.io, or on the AIWatch dashboard at ai-watch.dev.' },
+      { q: 'What should I do when Twelve Labs API is down?', a: 'If Twelve Labs is experiencing downtime, consider checking the official status page for updates. For video understanding workflows, you may need to wait for the service to recover or implement retry logic with exponential backoff.' },
+      { q: 'How often does Twelve Labs go down?', a: 'Twelve Labs uptime and incident history are tracked on this page. Check the recent incidents section and uptime percentage for current reliability data.' },
+    ],
+  },
 }
 
 export function getSEOContent(slug: string): ServiceSEO | null {

diff --git a/worker/src/services.ts b/worker/src/services.ts
@@ -160,6 +160,14 @@ export const SERVICES: ServiceConfig[] = [
   // displayComponentIds (#606): API + User Dashboard. Display-only.
   { id: 'voyageai', name: 'Voyage AI', provider: 'Voyage AI', category: 'api', statusUrl: 'https://voyageai-status.statuspage.io', apiUrl: 'https://voyageai-status.statuspage.io/api/v2/summary.json', statusComponentId: 'g74wmxgm0zxr', displayComponentIds: ['g74wmxgm0zxr', 'p4zzcfjd8p5q'] },
   { id: 'modal', name: 'Modal', provider: 'Modal', category: 'api', statusUrl: 'https://status.modal.com', apiUrl: null, rssFeedUrl: 'https://status.modal.com/feed', betterStackUrl: 'https://status.modal.com', flapSuppression: true, componentDenylist: ['Website'] },
+  // Twelve Labs (#839) — video understanding / multimodal AI platform (search, embed, analyze over
+  // video via Marengo & Pegasus foundation models). Atlassian Statuspage (page 5j9dmpdjtybc) →
+  // statuspage.ts covers it, no new parser. Single-owner page → no incidentKeywords needed.
+  // Category inference (not video-gen: Twelve Labs is search/embed/analyze, not generation).
+  // EXCLUDE_FALLBACK: no API_TIER; video understanding has no clean substitute.
+  // displayComponentIds (#606): all 10 individual API surfaces (Search/Embed/Analyze/Index/Video
+  // list) under the API group. Excludes Platform/Playground/Dashboard (non-API surfaces).
+  { id: 'twelvelabs', name: 'Twelve Labs', provider: 'Twelve Labs', category: 'api', statusUrl: 'https://status.twelvelabs.io', apiUrl: 'https://status.twelvelabs.io/api/v2/summary.json', statusComponentId: 'mvv53x91b74m', displayComponentIds: ['mrclkkqtj01j', '2zsl201s8df5', 'jnvb5r3v74q1', '751304vy1s9x', 'hr353rqqmwmk', 'yklrkrhkd1by', '3t1cjx55dyrf', '2k0gnkk2kjmz', 'j21c5rdfj8kf', '91lzwtn6071h'], addedAt: '2026-07-02' },
   // LangSmith (#561) — LangChain's hosted observability/eval platform. incident.io page exposes a
   // statuspage v2-compatible API so statuspage.ts covers it. Multi-component worst-of (#379): badge
   // tracks the three load-bearing surfaces (Run Ingestion + API + Application); the other components

diff --git a/api/_is-down/slug-map.ts b/api/_is-down/slug-map.ts
@@ -47,6 +47,8 @@ export const SLUG_TO_SERVICE: Record<string, { id: string; name: string; provide
   'flux':            { id: 'bfl',        name: 'Black Forest Labs (FLUX)', provider: 'Black Forest Labs', category: 'api', group: 'image' },
   'voyageai':        { id: 'voyageai',   name: 'Voyage AI',        provider: 'Voyage AI',   category: 'api', group: 'inference' },
   'modal':           { id: 'modal',      name: 'Modal',            provider: 'Modal',       category: 'api', group: 'inference' },
+  // Twelve Labs (#839) — video-understanding API (search/embed/analyze), not video generation. Slug == worker id.
+  'twelvelabs':      { id: 'twelvelabs', name: 'Twelve Labs',      provider: 'Twelve Labs', category: 'api', group: 'inference' },
   // LangChain (LangSmith) (#561) — slug is 'langchain' (search volume) while the worker id is
   // 'langsmith'; the id≠slug mapping is mirrored in worker/src/rss.ts IS_DOWN_SLUG_OVERRIDE and
   // src/utils/constants.js FEED_SLUG_OVERRIDE, pinned by feed-slug-sync.test.ts / feed-slug.test.js.
@@ -113,6 +115,7 @@ export const RELATED_SLUGS: Record<string, string[]> = {
   'flux':           ['stability', 'replicate', 'huggingface'], // #756
   'voyageai':       ['pinecone', 'cohere'],
   'modal':          ['replicate', 'huggingface'],
+  'twelvelabs':     ['replicate', 'huggingface', 'runway', 'luma'],
   'langchain':      ['helicone', 'langfuse'],
   'helicone':       ['langchain', 'langfuse'],
   'langfuse':       ['langchain', 'helicone'],

diff --git a/api/is-down.ts b/api/is-down.ts
@@ -11,7 +11,7 @@ export const config = { runtime: 'edge' }
 
 const WORKER_API = 'https://aiwatch-worker.p2c2kbf.workers.dev'
 // Keep in sync with worker/src/fallback.ts and src/utils/constants.js
-const EXCLUDE_FALLBACK = ['replicate', 'huggingface', 'fal', 'voyageai', 'modal', 'characterai', 'bedrock', 'azureopenai'] // #756 — stability un-excluded (image sibling FLUX added); #758 — fal excluded (self-serve inference platform); #857 — pinecone un-excluded (vector sibling turbopuffer added, tier 8)
+const EXCLUDE_FALLBACK = ['replicate', 'huggingface', 'fal', 'voyageai', 'modal', 'characterai', 'bedrock', 'azureopenai', 'twelvelabs'] // #756 — stability un-excluded (image sibling FLUX added); #758 — fal excluded (self-serve inference platform); #857 — pinecone un-excluded (vector sibling turbopuffer added, tier 8)
 
 // #378: notify the Worker when this Edge Function falls back to a degraded
 // render so an operator Discord alert fires. Worker handles 5-min KV dedup, so

diff --git a/worker/src/__tests__/probe.test.ts b/worker/src/__tests__/probe.test.ts
@@ -70,13 +70,13 @@ describe('PROBE_TARGETS', () => {
   const EXPECTED_IDS = [
     'claude', 'openai', 'gemini', 'mistral', 'cohere', 'groq', 'together',
     'fireworks', 'cerebras', 'perplexity', 'huggingface', 'replicate', 'fal', 'elevenlabs', 'xai', 'deepseek',
-    'openrouter', 'stability', 'bfl', 'assemblyai', 'deepgram', 'voyageai',
+    'openrouter', 'stability', 'bfl', 'assemblyai', 'deepgram', 'voyageai', 'twelvelabs',
     'pinecone', 'langsmith', 'runway', 'luma', // #678 — added (stable representative API path)
     'turbopuffer', // #857 — no official uptime, probe is the sole measured signal
   ]
 
-  it('has all 29 API service probe targets', () => {
-    expect(PROBE_TARGETS).toHaveLength(29)
+  it('has all 30 API service probe targets', () => {
+    expect(PROBE_TARGETS).toHaveLength(30)
     const ids = PROBE_TARGETS.map((t) => t.id)
     for (const expected of EXPECTED_IDS) {
       expect(ids).toContain(expected)

diff --git a/worker/src/fallback.ts b/worker/src/fallback.ts
@@ -7,7 +7,7 @@ import { isNonReliabilityAdvisory } from './utils'
 // each other in Tier 7); bfl is fallback-eligible from the start (never added here).
 // #857 — pinecone un-excluded now that the vector category has ≥2 members (Pinecone + turbopuffer recommend
 // each other in Tier 8); turbopuffer is fallback-eligible from the start (never added here).
-export const EXCLUDE_FALLBACK = ['replicate', 'huggingface', 'fal', 'voyageai', 'modal', 'characterai', 'bedrock', 'azureopenai']
+export const EXCLUDE_FALLBACK = ['replicate', 'huggingface', 'fal', 'voyageai', 'modal', 'characterai', 'bedrock', 'azureopenai', 'twelvelabs']
 
 // Tier-based priority — same-tier services sorted by Score, then adjacent tiers by distance.
 // API tiers (1-4) and agent tiers (11-13) use distinct number ranges so TIER_LABEL stays unambiguous

diff --git a/worker/src/__tests__/status-determination.test.ts b/worker/src/__tests__/status-determination.test.ts
@@ -638,7 +638,7 @@ describe('displayComponentIds config sanity (#606)', () => {
 
   // #606 — single-owner statuspages: a curated displayComponentIds breakdown + the existing
   // single statusComponentId badge (so the badge is unchanged; statusComponentIds plural absent).
-  const SINGLE_OWNER_COUNT: Record<string, number> = { assemblyai: 6, deepgram: 9, characterai: 5, junie: 2, voyageai: 2, pinecone: 6 }
+  const SINGLE_OWNER_COUNT: Record<string, number> = { assemblyai: 6, deepgram: 9, characterai: 5, junie: 2, voyageai: 2, pinecone: 6, twelvelabs: 10 }
 
   it('single-owner services carry the curated displayComponentIds count, keep their badge statusComponentId, and have no worst-of statusComponentIds', () => {
     for (const [id, count] of Object.entries(SINGLE_OWNER_COUNT)) {

diff --git a/worker/src/probe.ts b/worker/src/probe.ts
@@ -29,6 +29,7 @@ export const PROBE_TARGETS: ProbeTarget[] = [
   { id: 'assemblyai', url: 'https://api.assemblyai.com/v2/transcript' },
   { id: 'deepgram', url: 'https://api.deepgram.com/v1/models' },
   { id: 'voyageai', url: 'https://api.voyageai.com/v1/embeddings' },
+  { id: 'twelvelabs', url: 'https://api.twelvelabs.io/v1.3/indexes' },             // control-plane, 401
   // #678 — added after a live cross-check showed these have a stable, representative API path that
   // returns a fast status without auth (the probe measures RTT and treats ANY HTTP response as
   // "server alive", so the old "requires auth" exclusions were invalid):
